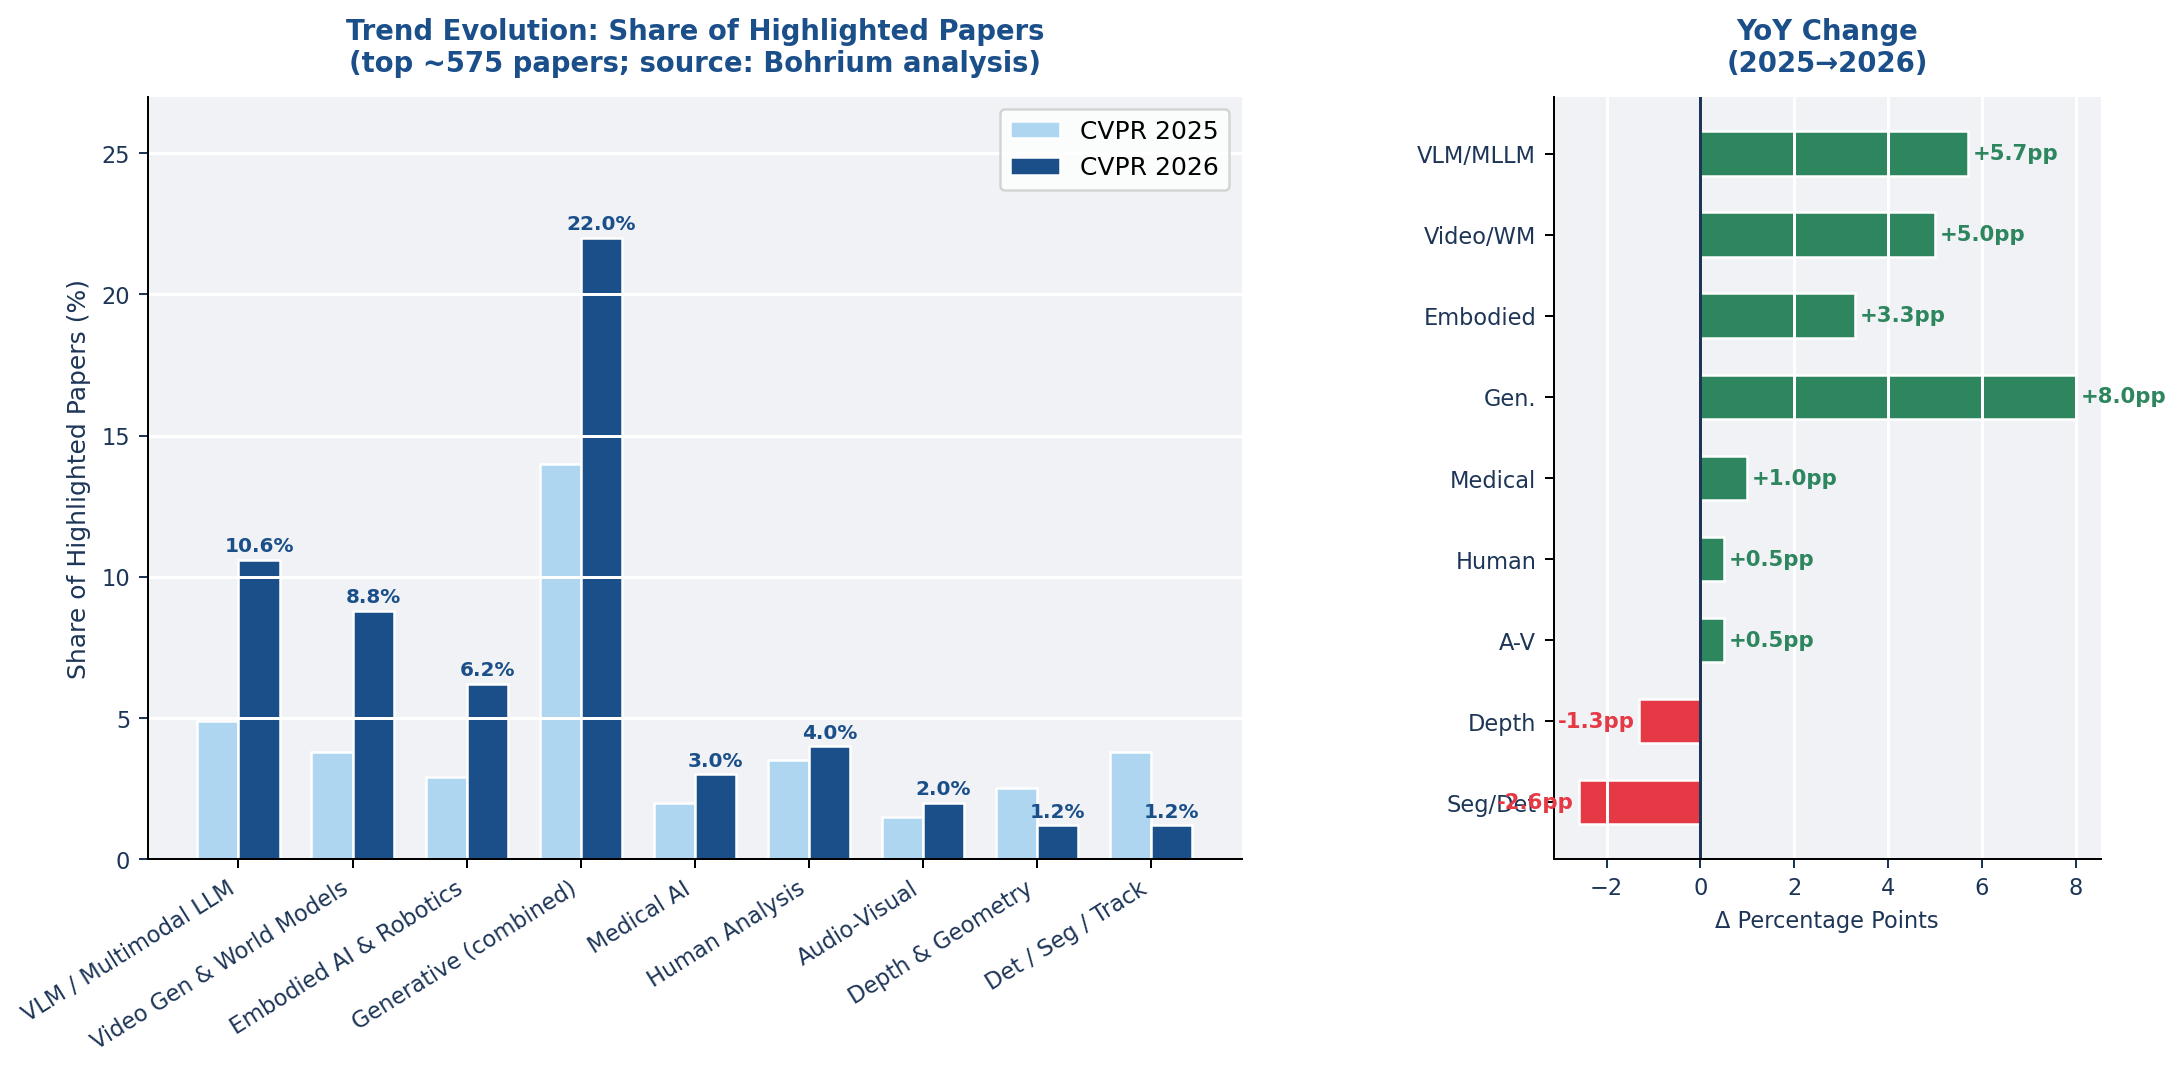
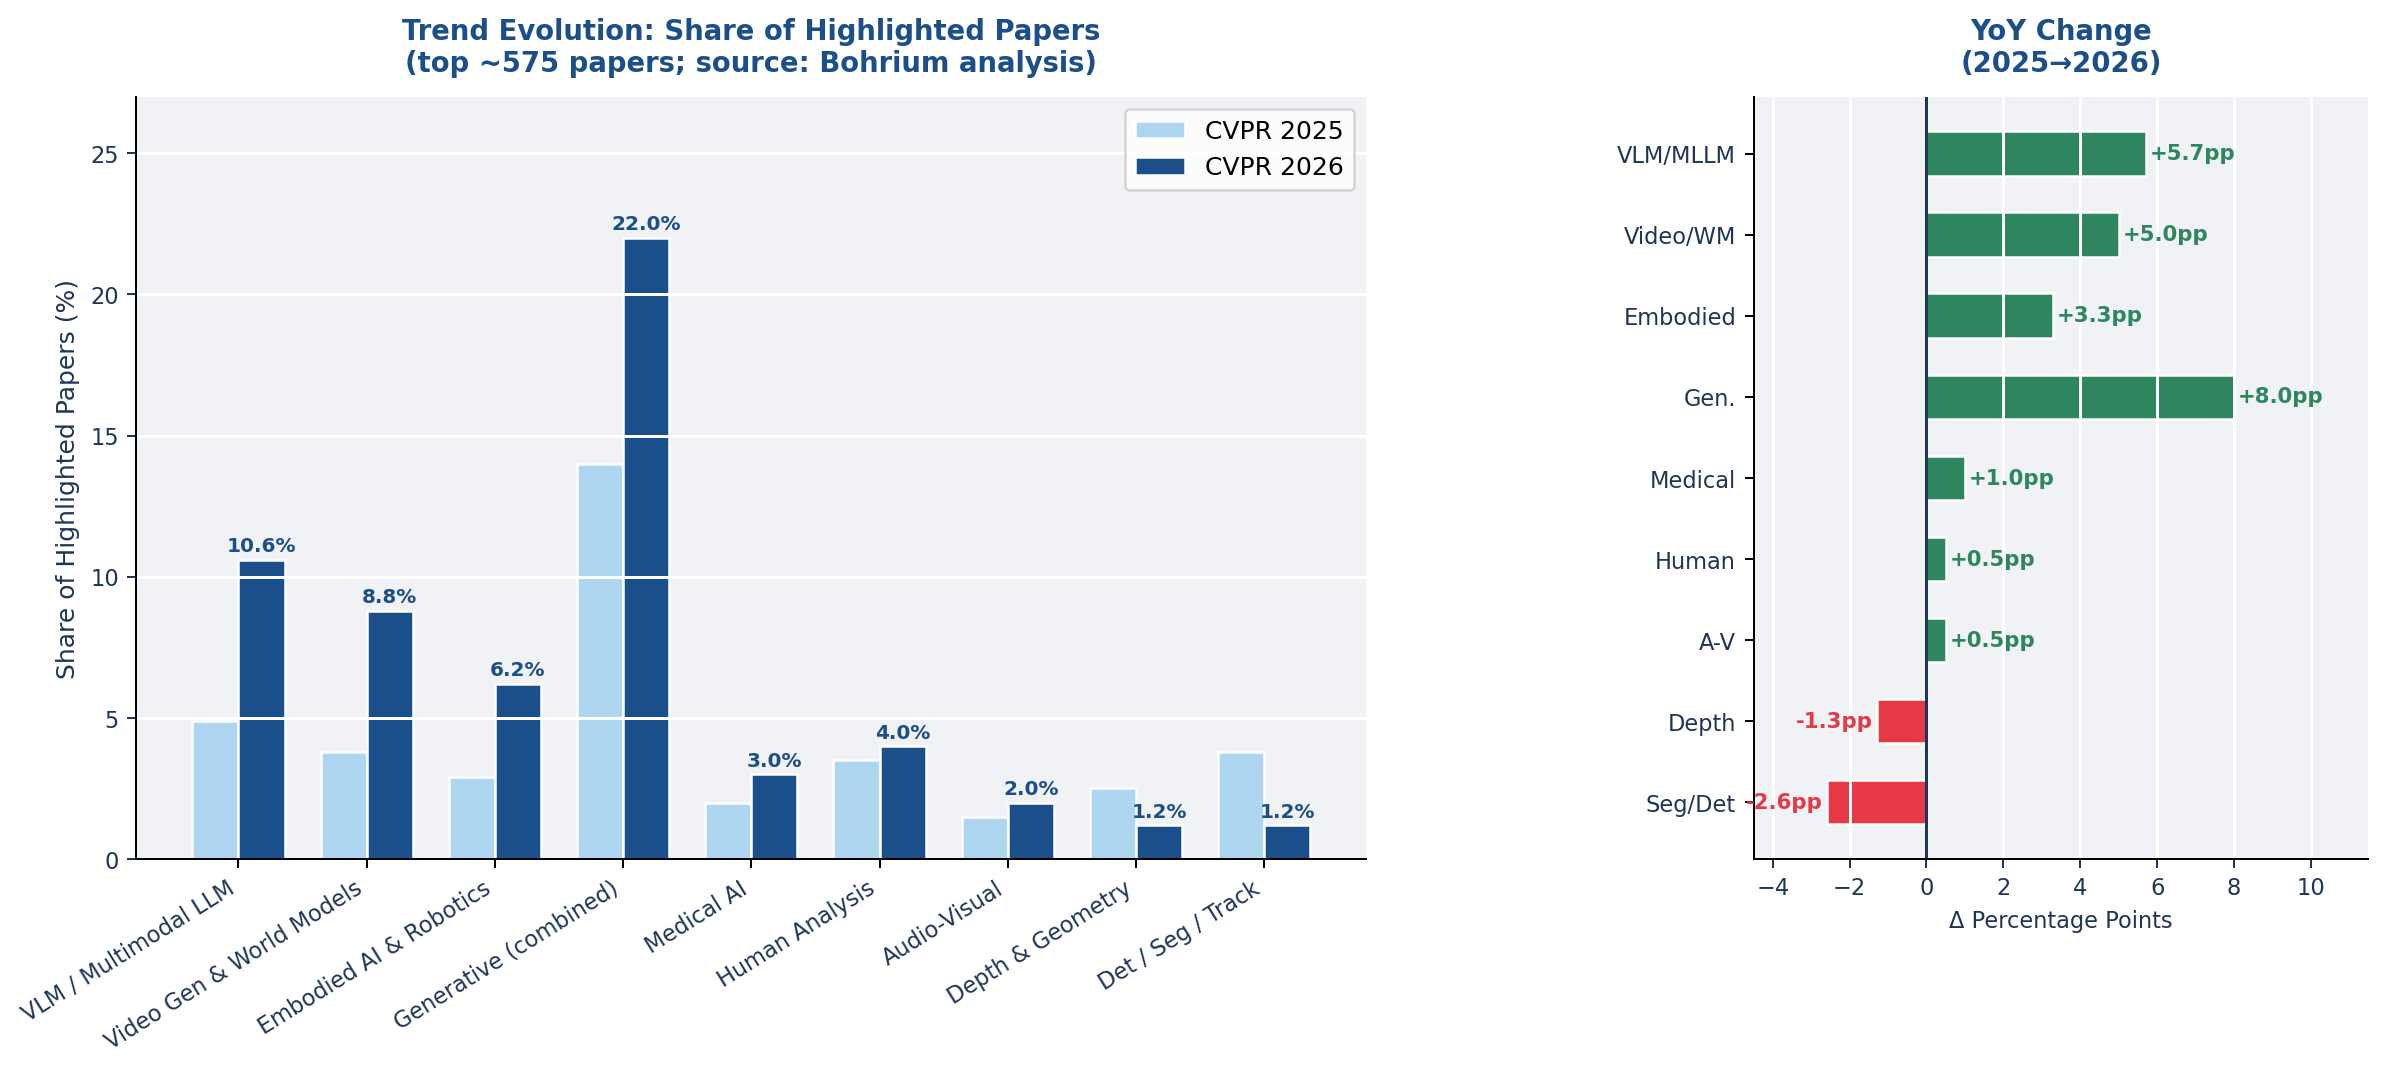
Polish figures and update blog title
- fig2: wider canvas to fix right-label overlap
- fig4: remove annotation boxes, rename Meta/FAIR → Meta
- med_fig6: fix insight-row text contrast (dark text on light bg)
- med_fig7: remove cluttered in-bubble labels
- Blog title: 4,000 Papers → 4,000+ Papers in Five Days
- Blog: remove fig9 (quantitative summary) from opening section

diff --git a/_posts/2026-06-05-cvpr2026-debrief.md b/_posts/2026-06-05-cvpr2026-debrief.md
@@ -1,6 +1,6 @@
 ---
 layout: post
-title: "4,000 Papers in Five Days: A Systematic CVPR 2026 Debrief"
+title: "4,000+ Papers in Five Days: A Systematic CVPR 2026 Debrief"
 description: Denver, June 3–7. I spent the week walking between poster halls, sitting through oral sessions, and building a structured analysis pipeline to make sense of it all. This is what the conference looked like, from the big trends down to the medical AI papers I care most about.
 tags: CVPR conference medical-AI VLM diffusion world-models embodied-AI research
 categories: research
@@ -28,8 +28,6 @@ This post is that synthesis. It's long. I've organized it so you can skip to wha
 The headline: **over 4,000 accepted papers**, up from 2,878 in 2025. That's roughly a 42% increase in one year. The acceptance rate actually ticked down slightly to 25.4% (from 28.4%), which means submission volume grew even faster — 16,092 submissions.
 
 **141 oral presentations** at a 3.4% oral rate. That's the competitive bar. For context: getting an oral at CVPR is meaningfully harder than getting an oral at many NeurIPS or ICLR cycles. The oral selection is where you see what the program committee genuinely thinks is frontier work.
-
-{% include figure.liquid loading="eager" path="assets/img/posts/cvpr2026-debrief/fig9_quant_summary.png" class="img-fluid rounded z-depth-1" caption="Key CVPR 2026 statistics. Over 4,000 accepted papers represents a ~42% YoY increase. The acceptance rate dropped slightly to 25.4%, meaning submission growth outpaced acceptance growth." %}
 
 The conference is also now the **second most-cited venue in all of science** according to Google Scholar Metrics — above Nature Medicine, above Physical Review Letters. That context matters when you're deciding where to submit.
 
@@ -352,7 +350,7 @@ The conference left me with more to read than I expected to find, which is proba
 
 ## Appendix: Blog Title Options
 
-1. **4,000 Papers in Five Days: A Systematic CVPR 2026 Debrief** *(used above)*
+1. **4,000+ Papers in Five Days: A Systematic CVPR 2026 Debrief** *(used above)*
 2. CVPR 2026 Debrief: The Year VLMs Became the Default Architecture
 3. What I Learned From Systematically Analyzing CVPR 2026
 4. Five Days in Denver: What the Conference Actually Looked Like
